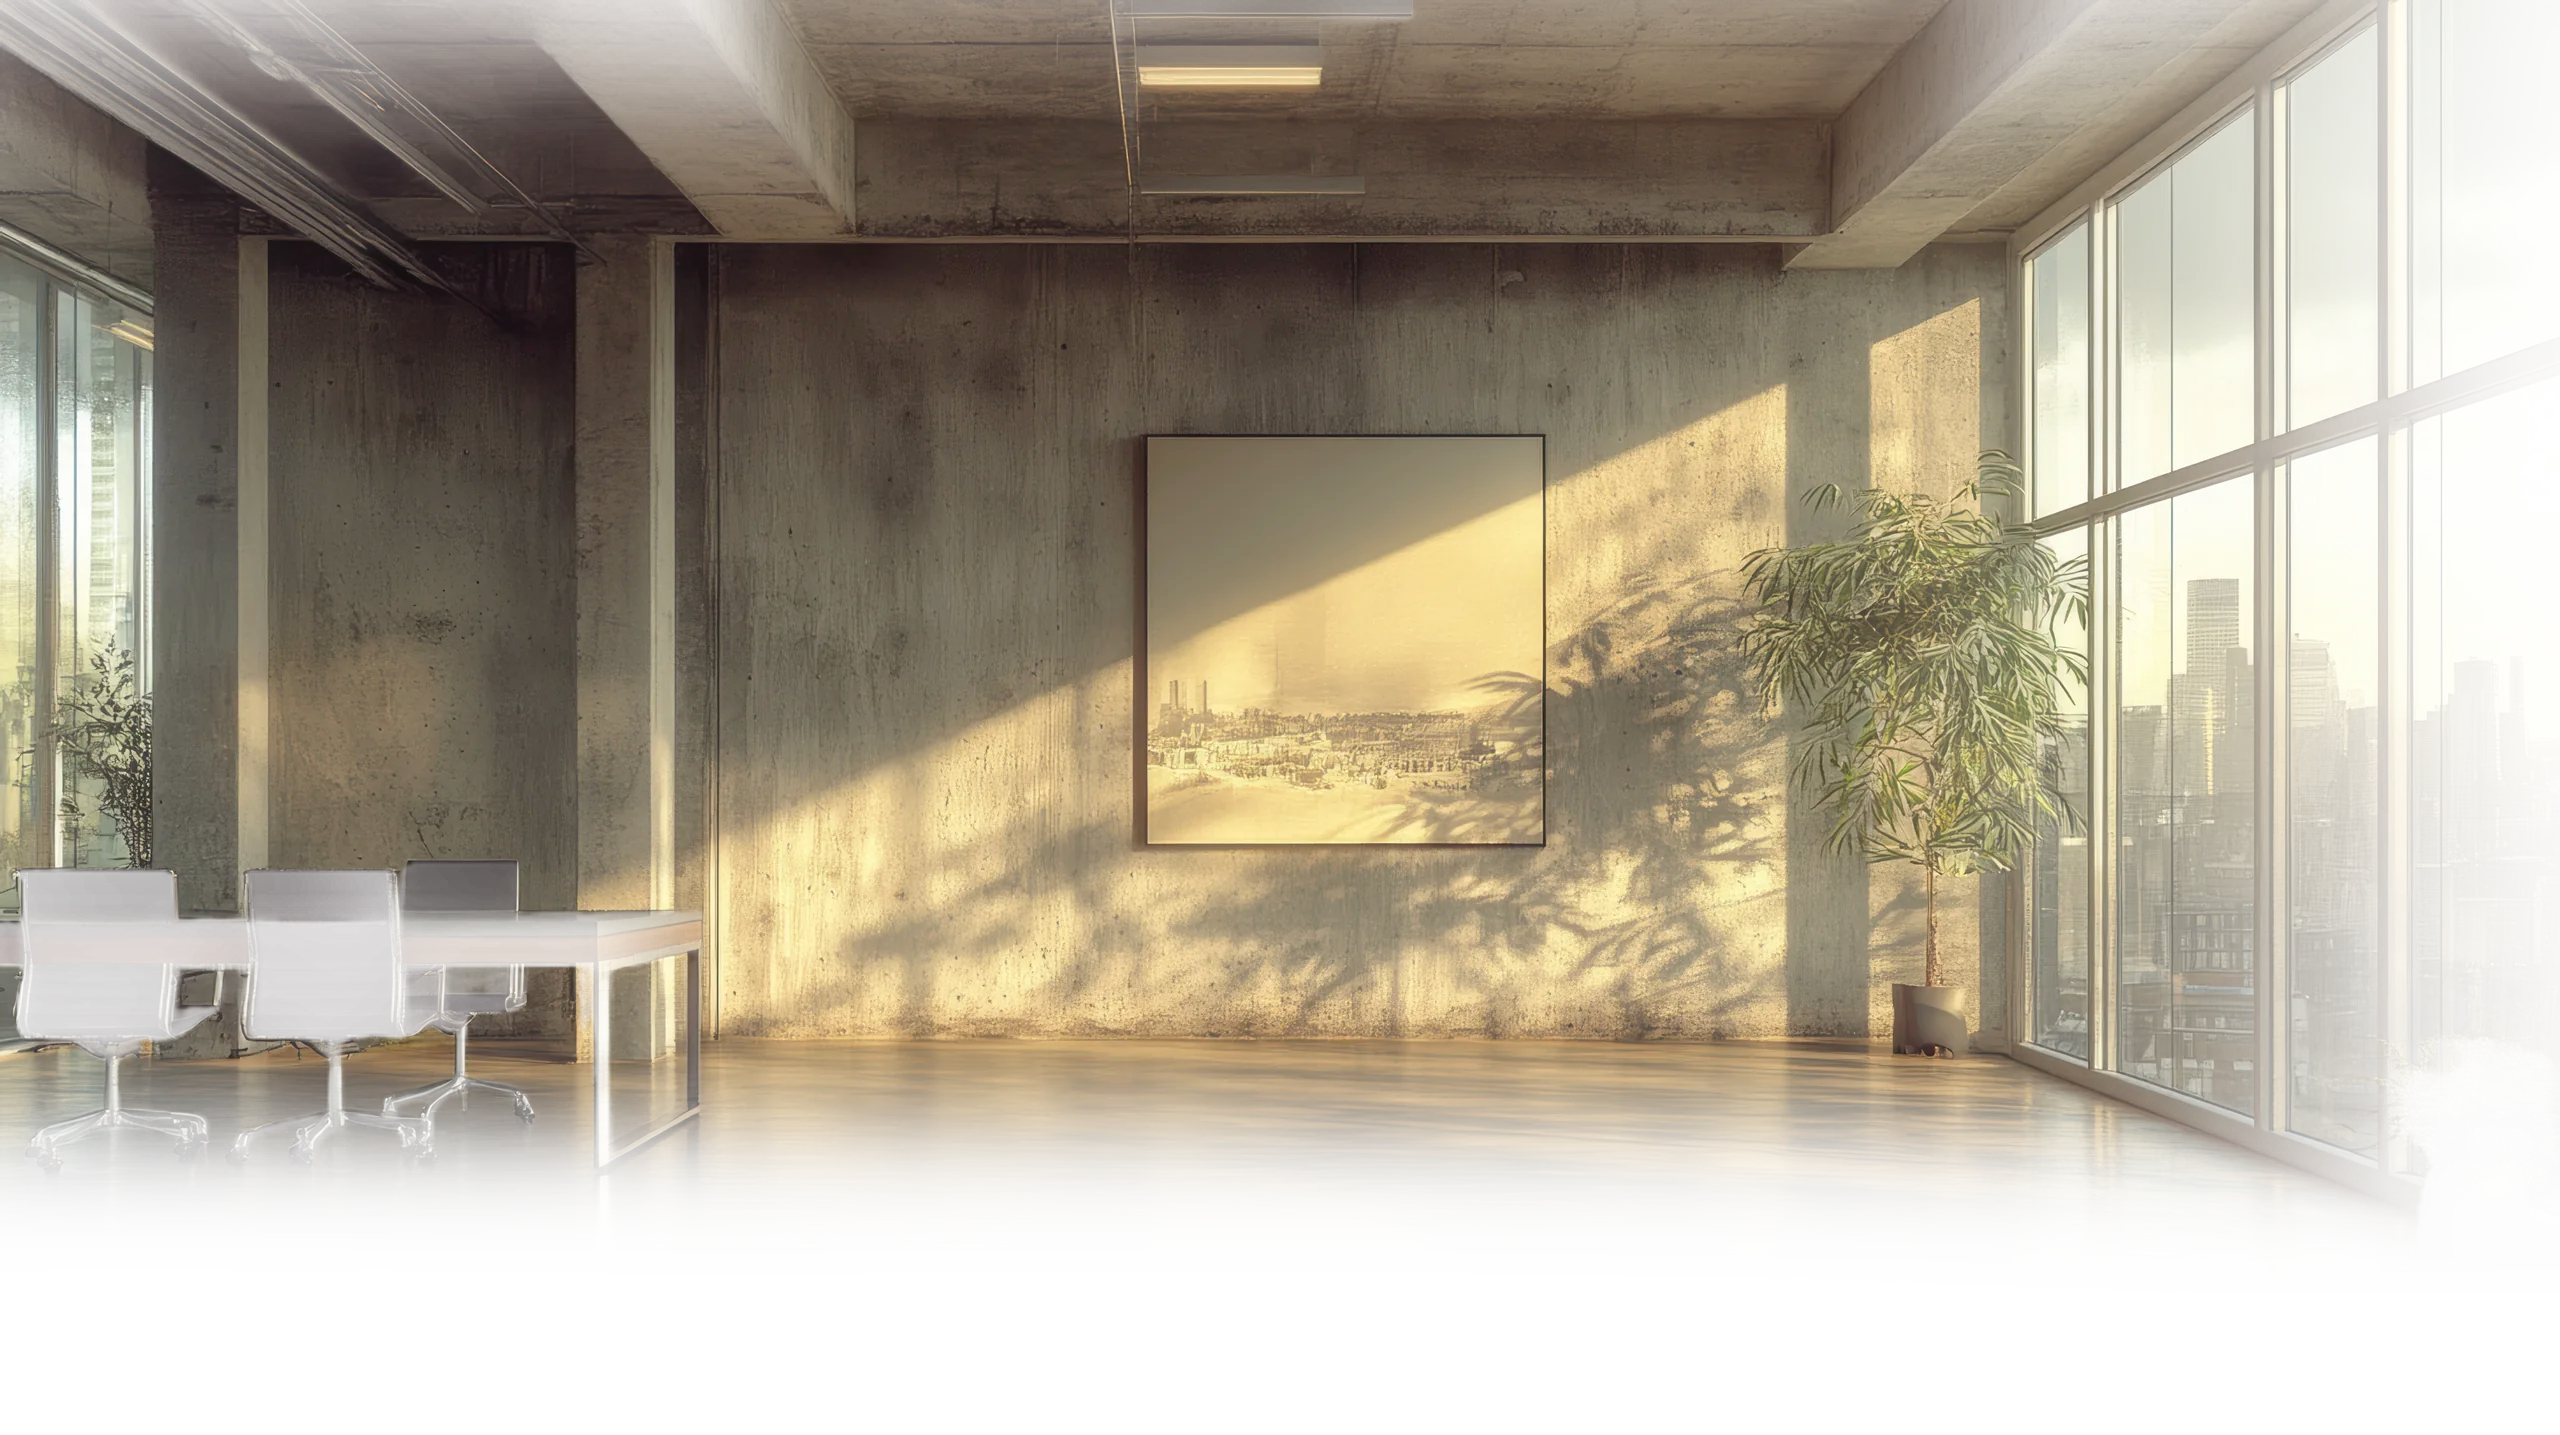
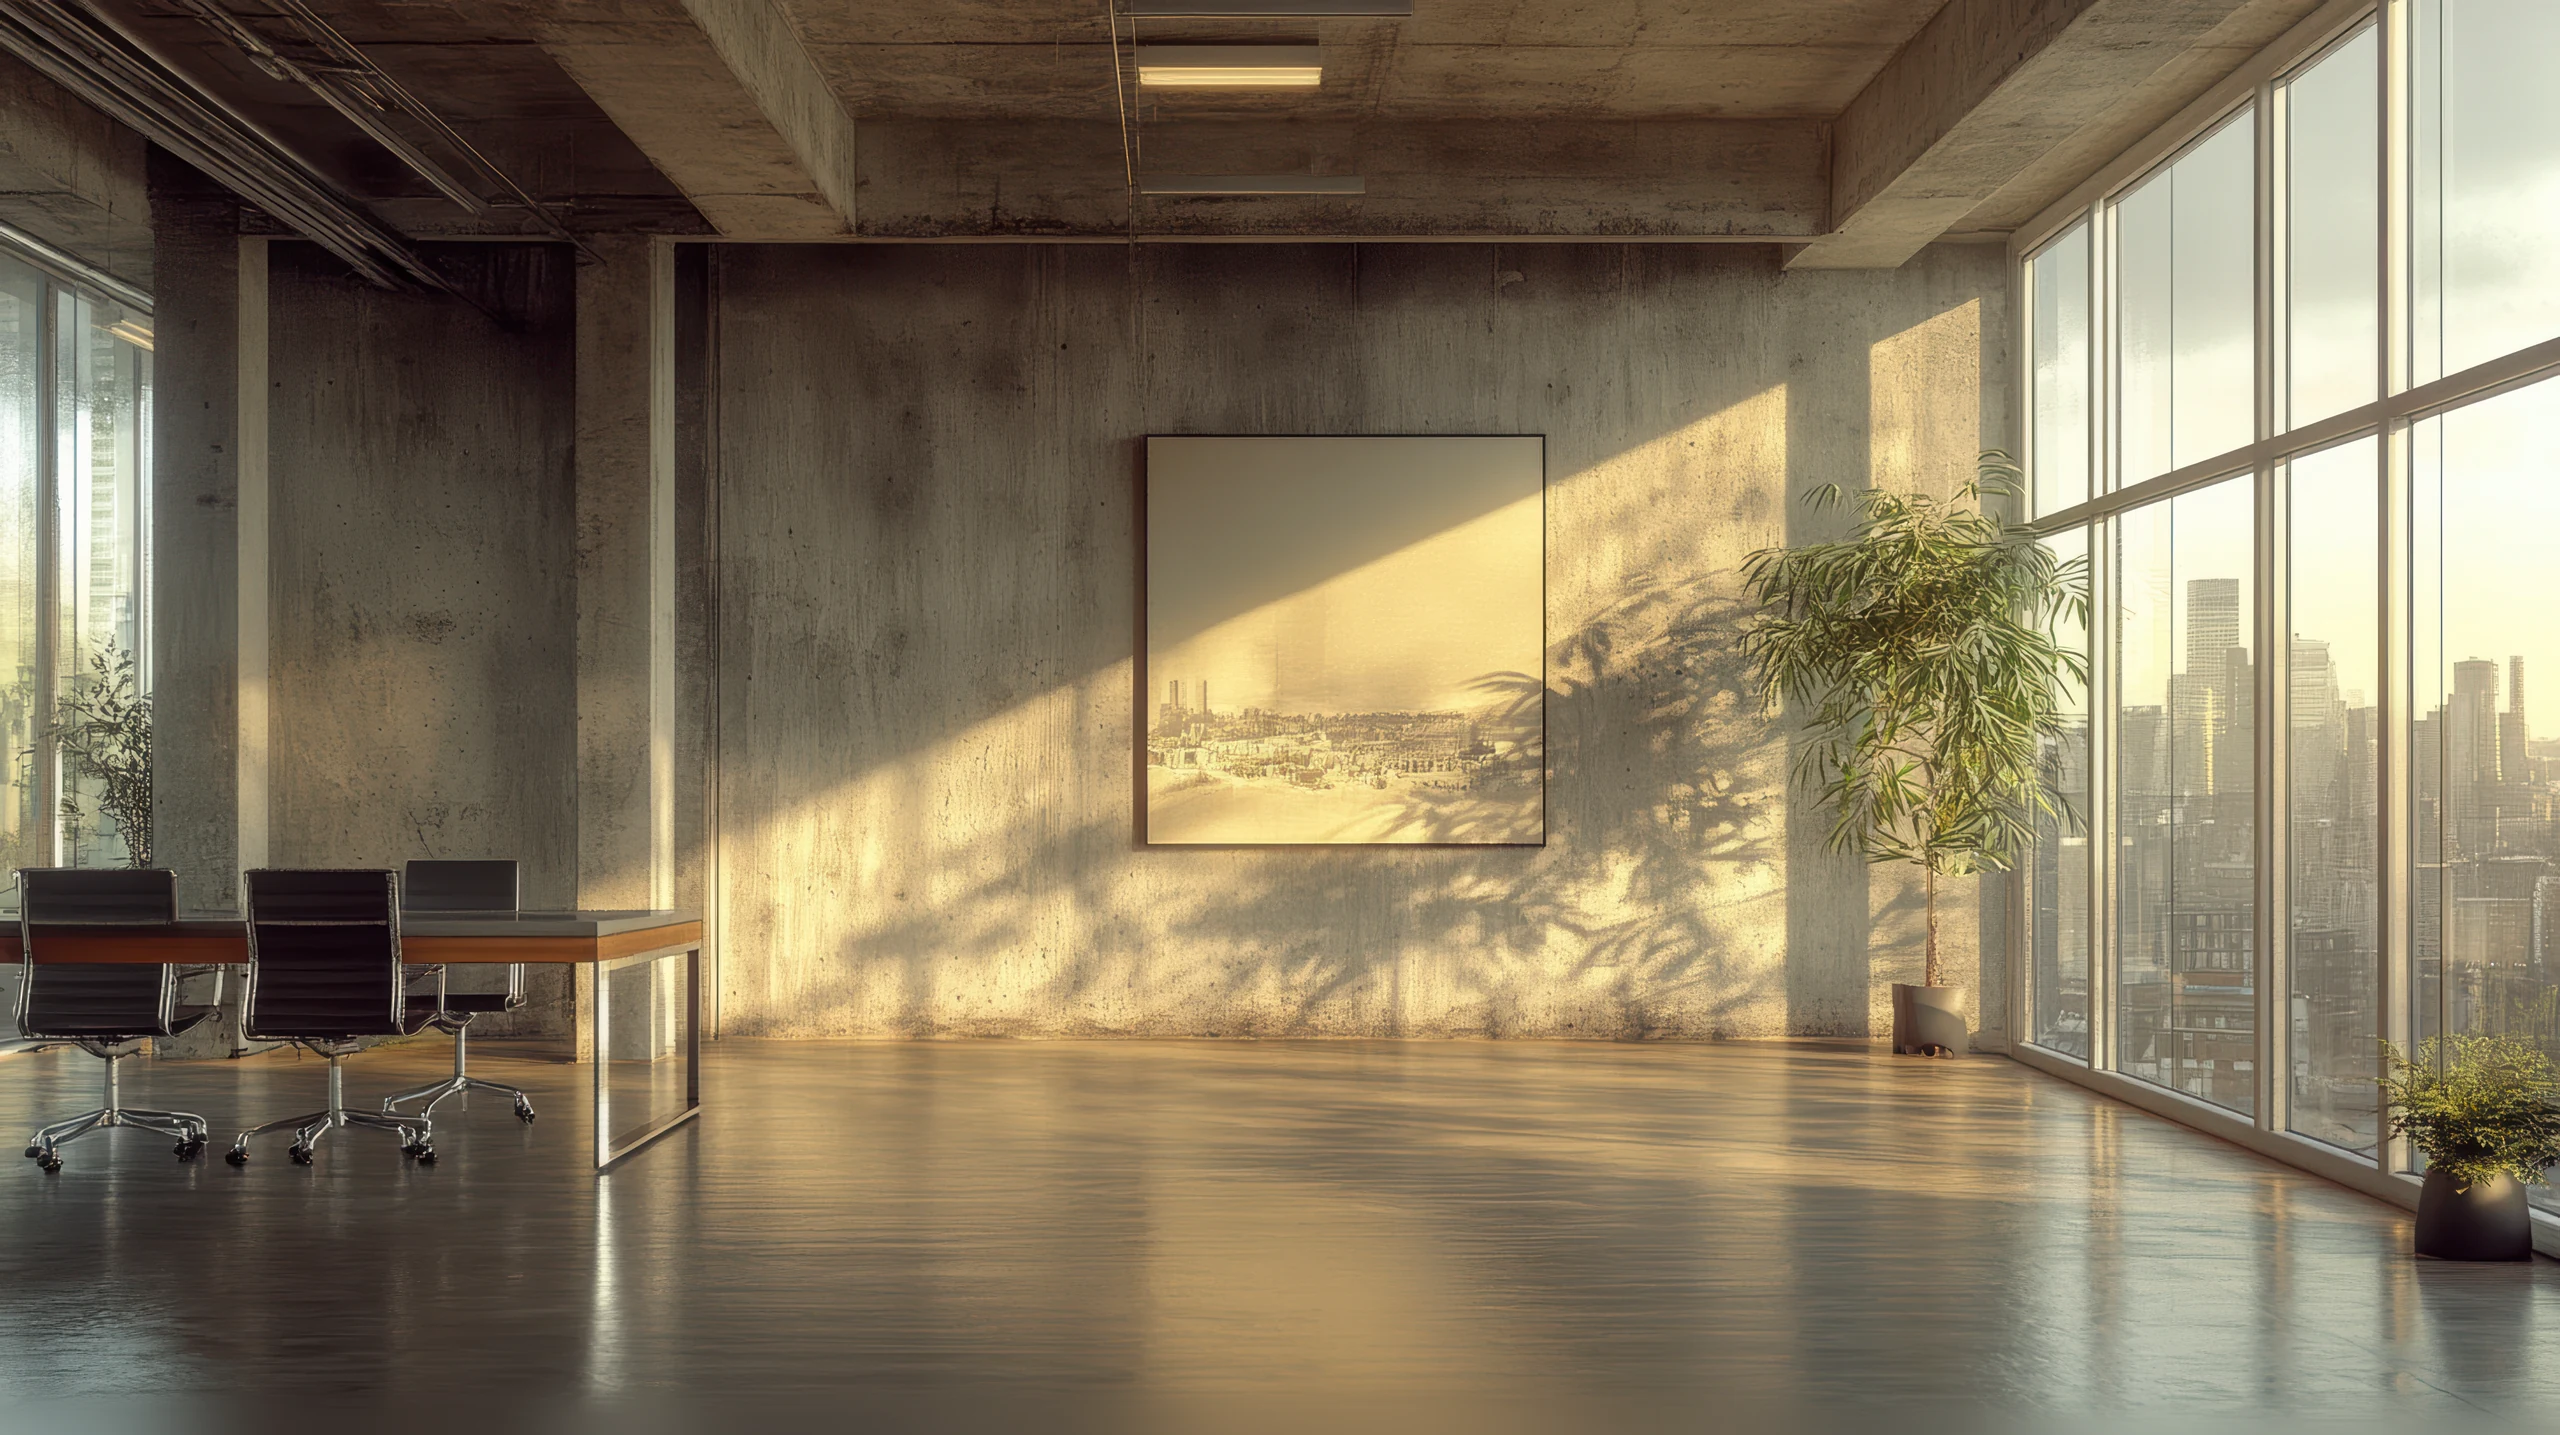
fix(call-room): switch to 2-layer design (sharp at rest, seamless on move) (M2-T14e)
Root cause of the global blur in commit f2e1981 / f1dacf4:

Standard browser 'over' compositing does not sum partition-of-unity
alphas — stacking 4 RGBA layers with alphas [0.6, 0.2, 0.1, 0.1] yields
a composited value of ~0.74×color, not 1.0×color. Result was a darkened
+ desaturated image where each layer's compressed RGB bled through.

New 2-layer design:

  bg-far  — Full image, alpha=1 everywhere. Foreground regions (depth >
            215) replaced with a 50px gaussian blur of the original to
            act as cheap 'behind-the-foreground' inpainting. Anchored
            (parallaxRange = 0).

  fg-near — Foreground only (depth > 150 with smooth alpha ramp to 210).
            Sharp original RGB. Translates up to 20px with the cursor.

At rest, fg-near's RGB matches bg-far's RGB everywhere fg-near has
alpha < 1, so the composite is bit-identical to the source photo. When
fg-near moves, the small revealed sliver of bg-far shows the smooth
inpainted fill — reads as plausible wall/floor behind the foreground.

20px parallax stays well inside the 50px inpaint blur so reveals never
hit the inpaint edge.

Removed unused bg-mid.webp / bg-near.webp.

diff --git a/components/call-room/layers/manifest.ts b/components/call-room/layers/manifest.ts
@@ -2,13 +2,20 @@
 //
 // Layer manifest for the Call Room office background.
 //
-// M2: 4 depth-sliced layers from the same source office photo, generated by
-// scripts/slice-call-room-layers.mjs using a depth map. Each layer carries
-// only the pixels in its depth band (alpha gradient), so they composite back
-// to the original. Per-layer parallaxRange creates the depth illusion as the
-// cursor moves: far layers stay still, near layers translate the most.
+// 2-layer parallax design (generated by scripts/slice-call-room-layers.mjs):
 //
-// scale > 1 oversizes each layer so parallax translation never exposes the
+//   bg-far  — full image, alpha=1, foreground regions cheaply inpainted
+//             with a heavy blur of the original. Static (parallaxRange=0)
+//             so the room feels anchored.
+//
+//   fg-near — foreground content only with sharp original color and a
+//             smooth alpha ramp. Translates with the cursor; reveals
+//             bg-far's inpainted fill when it moves.
+//
+// At rest the composite is bit-identical to the source photo because
+// fg-near's RGB matches bg-far's RGB everywhere it has alpha < 1.
+//
+// scale > 1 oversizes each layer so parallax travel never exposes the
 // canvas edge.
 
 export interface LayerSpec {
@@ -28,25 +35,11 @@ export const layers: LayerSpec[] = [
     scale: 1.06,
   },
   {
-    src: require('./bg-mid.webp'),
-    parallaxRange: 8,
-    zIndex: 1,
-    opacity: 1,
-    scale: 1.06,
-  },
-  {
-    src: require('./bg-near.webp'),
-    parallaxRange: 16,
-    zIndex: 2,
-    opacity: 1,
-    scale: 1.07,
-  },
-  {
     src: require('./fg-near.webp'),
-    // 20px stays comfortably inside the 24px dilation radius so foreground
-    // motion never reveals a hole.
+    // 20px stays comfortably inside the 50px inpaint blur radius so the
+    // revealed sliver behind the foreground always shows plausible color.
     parallaxRange: 20,
-    zIndex: 3,
+    zIndex: 1,
     opacity: 1,
     scale: 1.08,
   },